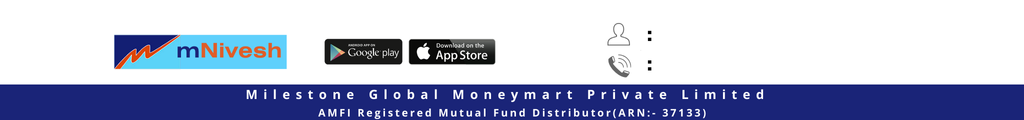
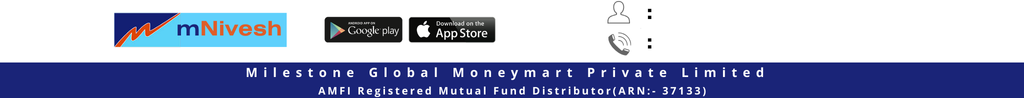
corrected position of disclamer, name and phone

diff --git a/frontend/src/components/pages/MarketingTemplates.jsx b/frontend/src/components/pages/MarketingTemplates.jsx
@@ -77,7 +77,7 @@ function MarketingTemplates() {
       const canvasWidth = mainImg.naturalWidth;
 
       // disclaimer height (make it clearly visible)
-      const disclaimerHeight = Math.max(10, Math.round(canvasWidth * 0.003)); 
+      const disclaimerHeight = Math.max(22, Math.round(canvasWidth * 0.015)); 
 
       // footer height scaled to main width
       const footerHeight = Math.round(
@@ -106,7 +106,7 @@ function MarketingTemplates() {
       const disclaimerText = `Disclaimer: ${getDisclaimerText(tpl)}`;
 
       ctx.fillStyle = "#111827";
-      ctx.font = `${Math.max(9, Math.round(canvasWidth * 0.013))}px Inter, sans-serif`;
+      ctx.font = `${Math.max(9.5, Math.round(canvasWidth * 0.013))}px Inter, sans-serif`;
       ctx.textAlign = "center";
       ctx.textBaseline = "middle";
       ctx.fillText(disclaimerText, canvasWidth / 2, disclaimerY + disclaimerHeight / 2);
@@ -125,8 +125,8 @@ function MarketingTemplates() {
       ctx.fillStyle = "#111827";
 
       const textX = canvasWidth * 0.65; // right side
-      const nameY = footerY + footerHeight * 0.24;
-      const phoneY = footerY + footerHeight * 0.48;
+      const nameY = footerY + footerHeight * 0.06;
+      const phoneY = footerY + footerHeight * 0.36;
 
 
       ctx.fillText(user?.name || "", textX, nameY);
@@ -313,21 +313,21 @@ function MarketingTemplates() {
                       alt="footer"
                       style={{
                         width: "100%",
-                        height: "56px",
-                        objectFit: "cover",
+                        height: "auto",        
+                        objectFit: "contain",  
                         display: "block",
                       }}
                     />
 
                     {/* ✅ Overlay text (NO EMAIL) */}
                   <div
-                    className="absolute right-[18%] top-[22%]
+                    className="absolute right-[21%] top-[6%]
                               flex flex-col items-start
                               text-left
                               text-[5px] sm:text-[7px]
                               font-normal leading-tight text-gray-700"
                   >
-                    <div className="mb-[6px]">{user?.name}</div>
+                    <div className="mb-[2px]">{user?.name}</div>
                     <div>+91 {user?.phone}</div>
                   </div>
 
